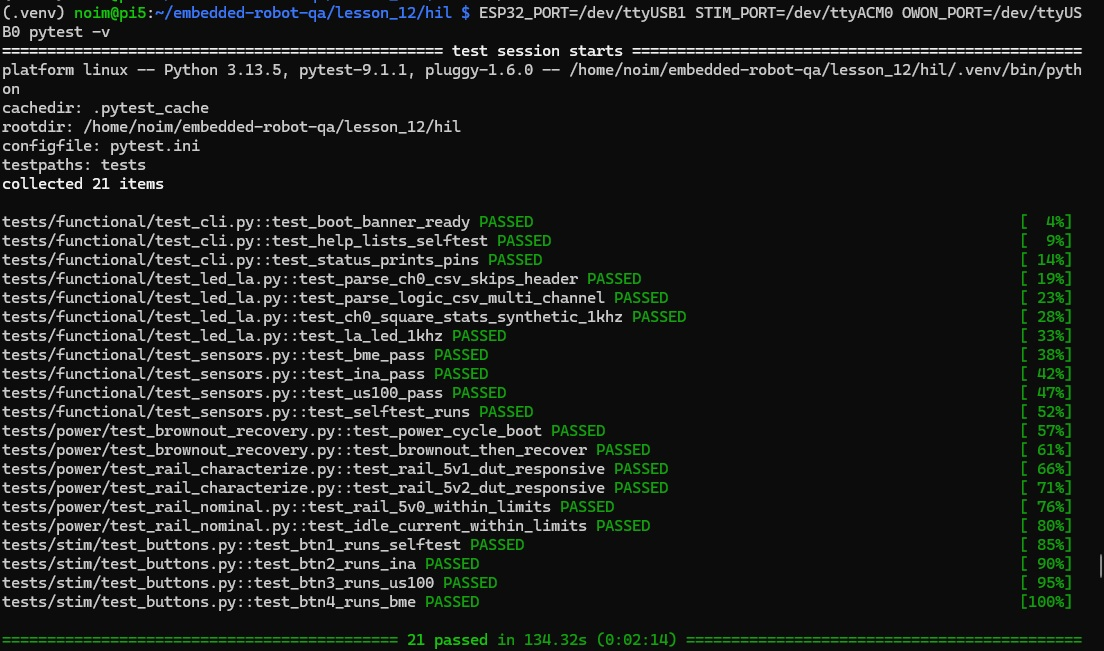
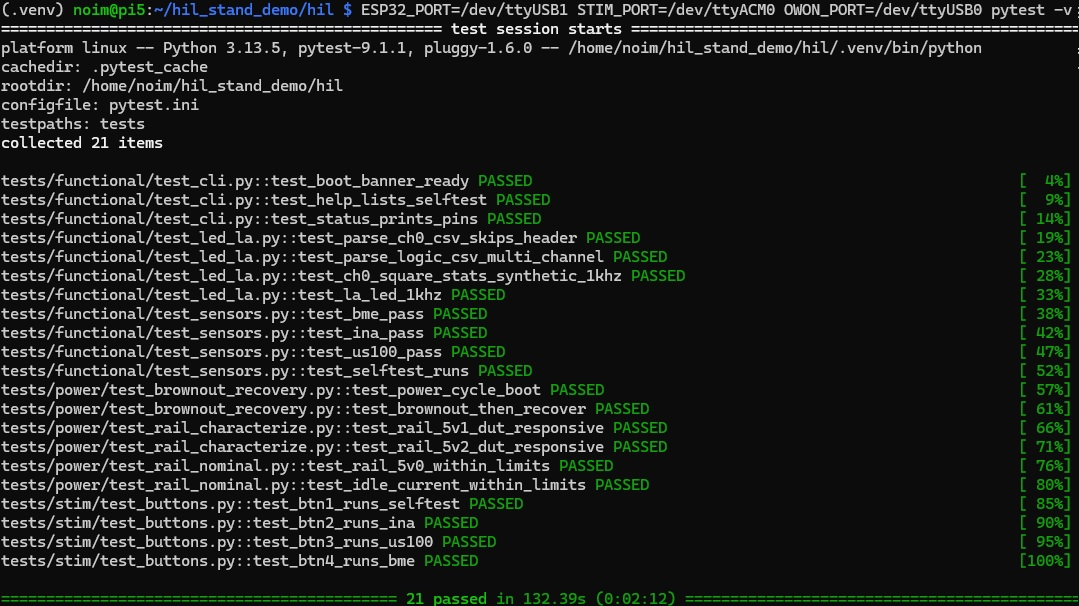
updated README.md and docs

Changed region(s): [[0.0, 0.0, 1.0, 0.9505], [0.9175, 0.2673, 1.0, 0.9505], [0.0, 0.9505, 1.0, 1.0]]

diff --git a/README.md b/README.md
@@ -7,8 +7,6 @@ This repo is the firmware, wiring, and pytest suite used on that stand — not a
 
 ![HIL stand diagram](docs/stand_diagram.png)
 
-![First stage](docs/first_stage.jpg)
-
 ![Wired stand](docs/Finished_HIL_stand.jpg)
 
 ![Example test run](docs/test_run_results.jpg)
